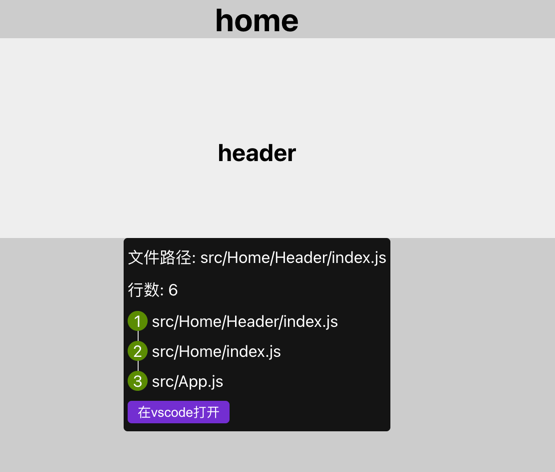
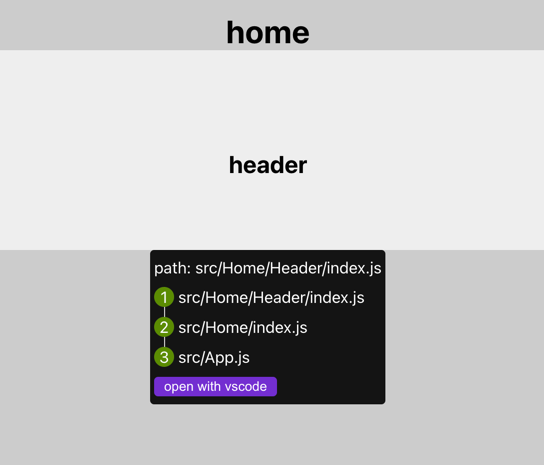
replace assets

Changed region(s): [[0.0, 0.4817, 1.0, 0.9333], [0.0, 0.0, 1.0, 0.1204], [0.375, 0.3011, 0.5625, 0.3914]]

diff --git a/src/index.js b/src/index.js
@@ -38,7 +38,7 @@ function createCopyButton(getText) {
     buttonEl.style.border = 'none';
     buttonEl.style.background = '#722ed1';
     buttonEl.style.outline = 'none';
-    buttonEl.innerHTML = '在vscode打开';
+    buttonEl.innerHTML = 'open with vscode';
     buttonEl.style.borderRadius = '4px';
     buttonEl.style.color = '#fff';
     buttonEl.style.padding = '2px 10px';
@@ -72,7 +72,7 @@ function showTooltip(debugInfo, element) {
     if (srcIndex > -1) {
         projectPath = fileName.slice(srcIndex);
         lineNumber = debugInfo.lineNumber;
-        template = `<p style="margin-bottom: 10px">文件路径: ${projectPath} </p>`;
+        template = `<p style="margin-bottom: 10px">path: ${projectPath} </p>`;
     } else {
         let {fileName: projectPathFull, lineNumber: projectLineNumber} = getProjectPath(element)?.debugInfo || {};
         if (!projectPathFull) return;
@@ -84,8 +84,8 @@ function showTooltip(debugInfo, element) {
         targetLineNum = lineNumber;
         targetColumn = debugInfo.columnNumber;
 
-        template = `<p style="margin-bottom: 10px">业务文件路径: ${projectPath} </p>
-                        <p style="margin-bottom: 10px">当前文件路径: ${nodeModulePath} </p>
+        template = `<p style="margin-bottom: 10px">path: ${projectPath} </p>
+                        <p style="margin-bottom: 10px">currentPath: ${nodeModulePath} </p>
                         `;
     }
     const result = getComponentPath(element);
@@ -187,7 +187,7 @@ function getComponentPath(el) {
     return result;
 }
 
-const getOpenText = (isOpen) => isOpen ? '关闭代码提示' : '打开代码提示';
+const getOpenText = (isOpen) => isOpen ? 'Turn off code path' : 'Open code path';
 
 function createCloseBtn() {
     const buttonEl = document.createElement('button');
